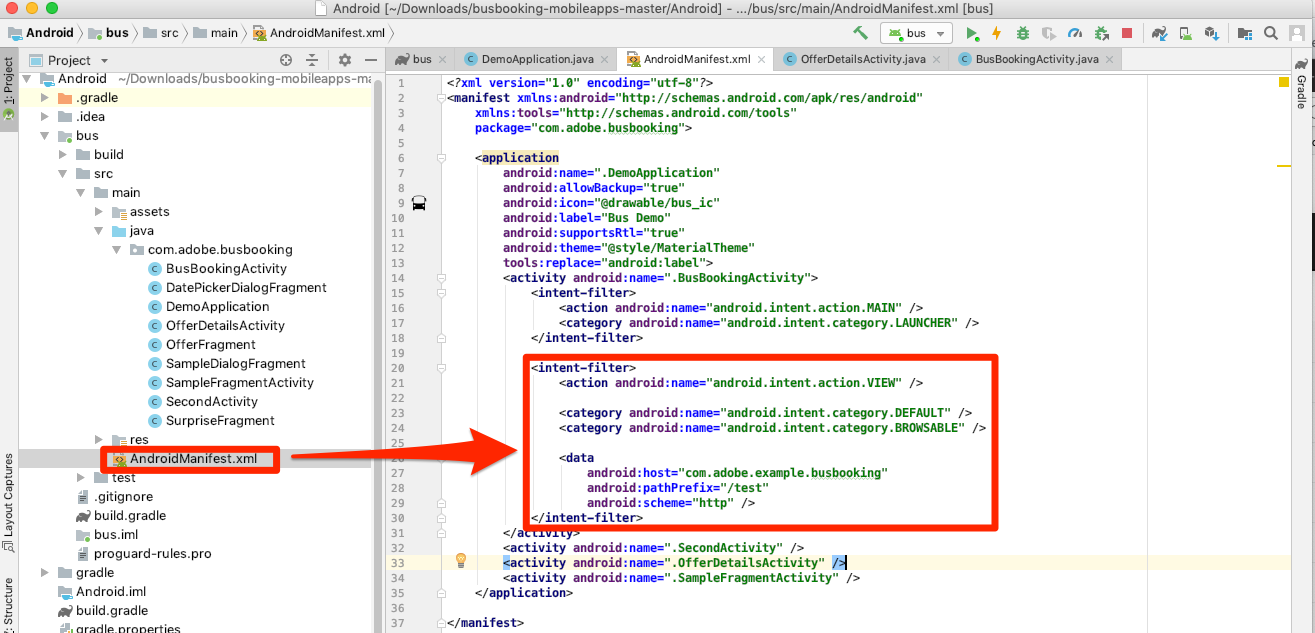
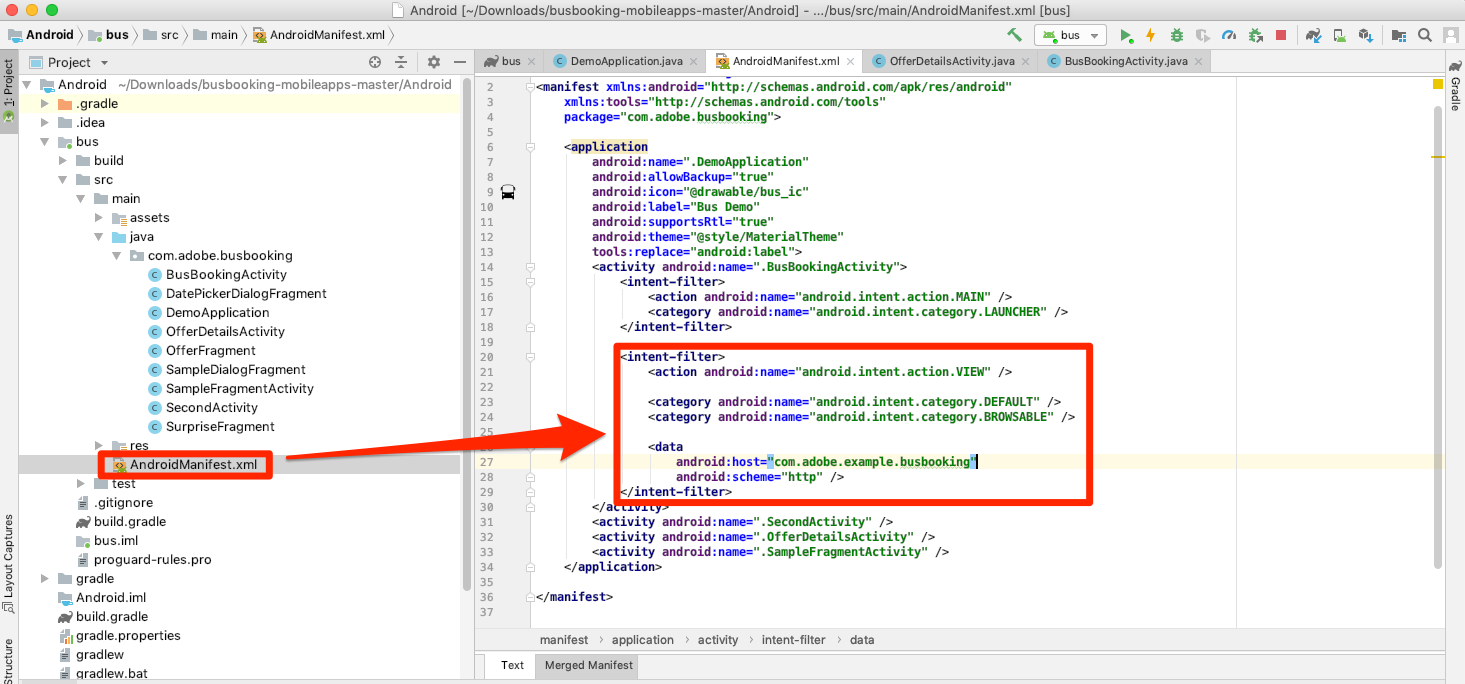
updates to VEC section

Changed region(s): [[0.0, 0.0, 1.0, 1.0]]

diff --git a/help/mobile-android-implementation/target-vec.md b/help/mobile-android-implementation/target-vec.md
@@ -95,20 +95,17 @@ For more information, and details on how to pass parameters with specific views,
 
 ## Pairing the Mobile App with the Target Interface
 
-In order to create VEC activities in the Target interface, you must first pair Target with your app. This pairing is achieved with the use of deep links. 
+In order to create VEC activities in the Target interface, you must first pair Target with your app. This pairing is achieved with the use of deep links.
 
-We will expand this tutorial in the future to show how to pair your Android app with the VEC and create an activity in the Target VEC. Until then, please see the [Android - set up the mobile app](https://docs.adobe.com/content/help/en/target/using/implement-target/mobile-apps/composer/mobile-visual-experience-composer-android.html)
-
-<!--
 ### Creating the Deep Link
 
-Android supports the use of [Deep links and Android App Links](https://developer.android.com/training/app-links/deep-linking) to create URLs that go directly to specific locations in your app. You probably already use these in your app. If so, you can use these existing links to pair with Target. For this tutorial, you will review the deep link scheme already defined in the Bus Booking app so you have a sense of what you will need to have in your own app.
+Android supports the use of [Deep links and Android App Links](https://developer.android.com/training/app-links/deep-linking) to create URLs that go directly to specific locations in your app. You probably already use these in your app. If so, you can use your existing URL structure to pair with Target. In this tutorial, you will review the deep link pre-defined in the Bus Booking app, confirm that it is working, and then use it to pair your app with the Target VEC for Mobile Apps.
 
-**To verify the Intent Filter**
+**To review the Deep link setup**
 
 1. In Android Studio, open the AndroidManifest.xml file
 1. Note that there is already an Intent Filter configured for the deep link scheme of the Bus Booking app
-1. Note that the `Host` and `Scheme` are already set to `com.adobe.example.busbooking` and `http`, respectively. This means that a url like `http://busboooking.example.adobe.com` when opened in the Simulator should automatically open the sample app
+1. Note that the `Host` and `Scheme` are already set to `com.adobe.example.busbooking` and `http`, respectively. This means that a url like `http://com.adobe.example.busbooking` when opened in the Emulator should automatically open the sample app
 
    ![Register the URL Scheme](images/android/mobile-targetvec-registerScheme.png)
 
@@ -116,17 +113,18 @@ The next step is to confirm that the deep link scheme is working
 
 ### Verify the deep link
 
-Because of the way the Intent Filter is configured, when a user with your app installed opens a URL like `http://busboooking.example.adobe.com` in the Emulator it will open your application.
+Now let's make sure that the deep link will open the app in the emulator. You may have your preferred way of running adb commands which you can certainly use.
 
-**To verify the deep link scheme**
+**To verify the deep link using adb (MAC)**
 
-1. Save the Android Studio project
-1. Rebuild the app
-1. In the Emulator, open Chrome
-1. Enter the url `http://busboooking.example.adobe.com` into the address bar
-1. You should get prompted with a modal to "Open this page in "DemoApplication"
-1. Click `Open`
-1. This should open the Bus Booking app
+1. Make sure the Android emulator is running
+1. Close the Bus Booking app if it is already open
+1. Open a Terminal window
+1. Navigate to your Android platform-tools directory: `cd Library/Android/sdk/platform-tools/`
+1. Confirm that your emulator is attached: `./adb devices`
+1. Open the adb shell: `./adb shell`
+1. In the adb shell test the deep link: `am start -W -a android.intent.action.VIEW -d "http://com.adobe.example.busbooking" "com.adobe.busbooking"`
+1. Confirm that the Bus Booking app has launched in the emulator
 
    ![Verify the deep link](images/android/mobile-targetvec-verifyDeepLink.png)
 
@@ -134,7 +132,7 @@ Now that your deep link structure is set up, you are ready to use the Target VEC
 
 ## Create an activity in the Mobile VEC
 
-Now let's create an activity in the Target UI.
+Now let's create an activity in the Target interface.
 
 **To Create an Activity with the Target VEC**
 
@@ -150,9 +148,6 @@ Now let's create an activity in the Target UI.
 1. Click the **[!UICONTROL Create Activity]** button and select **[!UICONTROL A/B Test]**
 1. Select **[!UICONTROL Mobile App]**
 1. Make sure **[!UICONTROL Visual]** is selected under **[!UICONTROL Choose Experience Composer]**
-
-   >[!WARNING] The Visual Experience Composer for mobile apps is currently in Beta and may not be available in your Target account.  Even if you have been able to complete all of the steps thus far, you may not see the Mobile VEC option as pictured below.
-
 1. Click the **[!UICONTROL Next]** button
   
    ![Create an A/B Activity using the Mobile VEC](images/mobile-targetvec-createActivity.png)
@@ -161,54 +156,45 @@ Now let's create an activity in the Target UI.
 
    ![Add a new app](images/mobile-targetvec-addNewApp.png)
 
-1. Enter the url scheme you just defined in the  **[!UICONTROL Enter URL scheme]** field, e.g. `http://busboooking.example.adobe.com`
+1. Enter the url scheme you just defined in the  **[!UICONTROL Enter URL scheme]** field, e.g. `http://com.adobe.example.busbooking/`
 1. Click **[!UICONTROL Create Deep Link]**
 
    ![Enter your URL Scheme and Create the Deep Link](images/android/mobile-targetvec-enterURLScheme.png)
 
     >[!NOTE] You have a few options to send the deep link to the app. You can:
     >
-    >   1. Take a photo of the QR code from your iOS Device (in our tutorial, the device would have to be linked to Android Studio)
-    >   1. Copy the deep link from the Target interface and send it to the device however you would like
     >   1. Email the deep link to a valid email address and then open the link with an email application on the device
+    >   1. Take a photo of the QR code from your Android Device (in our tutorial, the device would have to be linked to Android Studio)
+    >   1. Copy the deep link from the Target interface and send it to the device however you would like
 
 1. Click on the **[!UICONTROL Copy & Send Link]** tab.
+1. Click on the generated URL (note that clicking on the URL will automatically copy it to your clipboard)
 
    ![Copy the URL](images/android/mobile-targetvec-copyURL.png)
 
-1. Switch back to the Emulator
-1. Open Safari in the Emulator
-1. Paste the deep link URL into the address bar
-1. Click to open the app
-
-   ![Copy the URL](images/android/mobile-targetvec-pasteURL.png)
-
-    > [!TIP] If you are unsuccessful when copy-and-pasting the URL from your Desktop to the Emulator it's usually for one of these two reasons:
-    >
-    >   1. **The URL copied from the Target interface doesn't paste into the Emulator** This happens when the Desktop and Emulator clipboards are not synced.  If this happens, try toggling off and on the `Automatically Sync Pasteboard` setting in the Emulator and copy/pasting again:
-    >
-    >      ![Toggle the Emulator's clipboard setting](images/mobile-targetvec-toggleClipboard.png)
-    >
-    >   1. **Pasting the URL lands on the Google Search results page** Try repasting the deep link URL into the address bar and hitting `Enter`. You might need to repeat this a few times.
-
+1. Open a Terminal window (or switch back to it if you still have it open)
+1. Navigate to your Android platform-tools directory (you may already be here): `cd Library/Android/sdk/platform-tools/`
+1. Confirm that your emulator is attached: `./adb devices`
+1. Open the adb shell: `./adb shell`
+1. In the adb shell, replace [YOUR_TARGET_URL_WITH_TOKEN] in the following command with the URL you just copied to your clipboard: `am start -W -a android.intent.action.VIEW -d "[YOUR_TARGET_URL_WITH_TOKEN]" "com.adobe.busbooking"`
 1. After the App has loaded, switch back to your browser tab where you have Target opened. You should see your app loaded in the VEC.
 1. Click on text and image assets in your app and you should see options to edit and replace them!
 
-   ![App loads in the VEC](images/android/mobile-targetvec-devicePaired.png)
+<!--   ![App loads in the VEC](images/android/mobile-targetvec-devicePaired.png)-->
 
 1. Make some changes to the first screen in your app
 1. Now position the Emulator next to the browser with the VEC open
 1. Navigate to a different screen in the app and notice how the VEC updates with the Emulator!
 1. You can make updates to multiple views in your app, in a single activity!
 
-![App loads in the VEC](images/android/mobile-targetvec-navigateTheApp.png)
+<!--![App loads in the VEC](images/android/mobile-targetvec-navigateTheApp.png)-->
 
 1. You can also visually add click-tracking metrics!
 1. Save and Approve your activity and verify that you can see it in the sample app
 
 Pairing the device with the VEC is a one-time action. When you create more activities in the future on the same device, you will just be able to select the device from a list, as pictured below:
 
-   ![Using a saved Device](images/android/mobile-targetvec-useSavedApp.png)
+ <!--  ![Using a saved Device](images/android/mobile-targetvec-useSavedApp.png)-->
 
 >[!TIP] If you have a device open, but it is "Unavailable" in the selection menu, background the app by returning to the Home screen and then move the app back into the foreground to make it "Available" again.
 
@@ -236,5 +222,5 @@ Lifecycle metrics built-in metrics about the visitor's usage of your app that ar
    ![Audience for Launches <= 4](images/mobile-targetvec-LaunchesLessThan5.png)
 
 Note that there are a huge variety of out-of-the-box audience building options in Target. Additionally, you can send up custom data in the Target request for audience-building, use audiences shared from other Experience Cloud solutions such as Audience Manager and Analytics, and CRM data shared to Target using the Customer Attributes feature of the People Core Service.
-  -->
+  
 [Next "Add Adobe Target" >](target.md)
